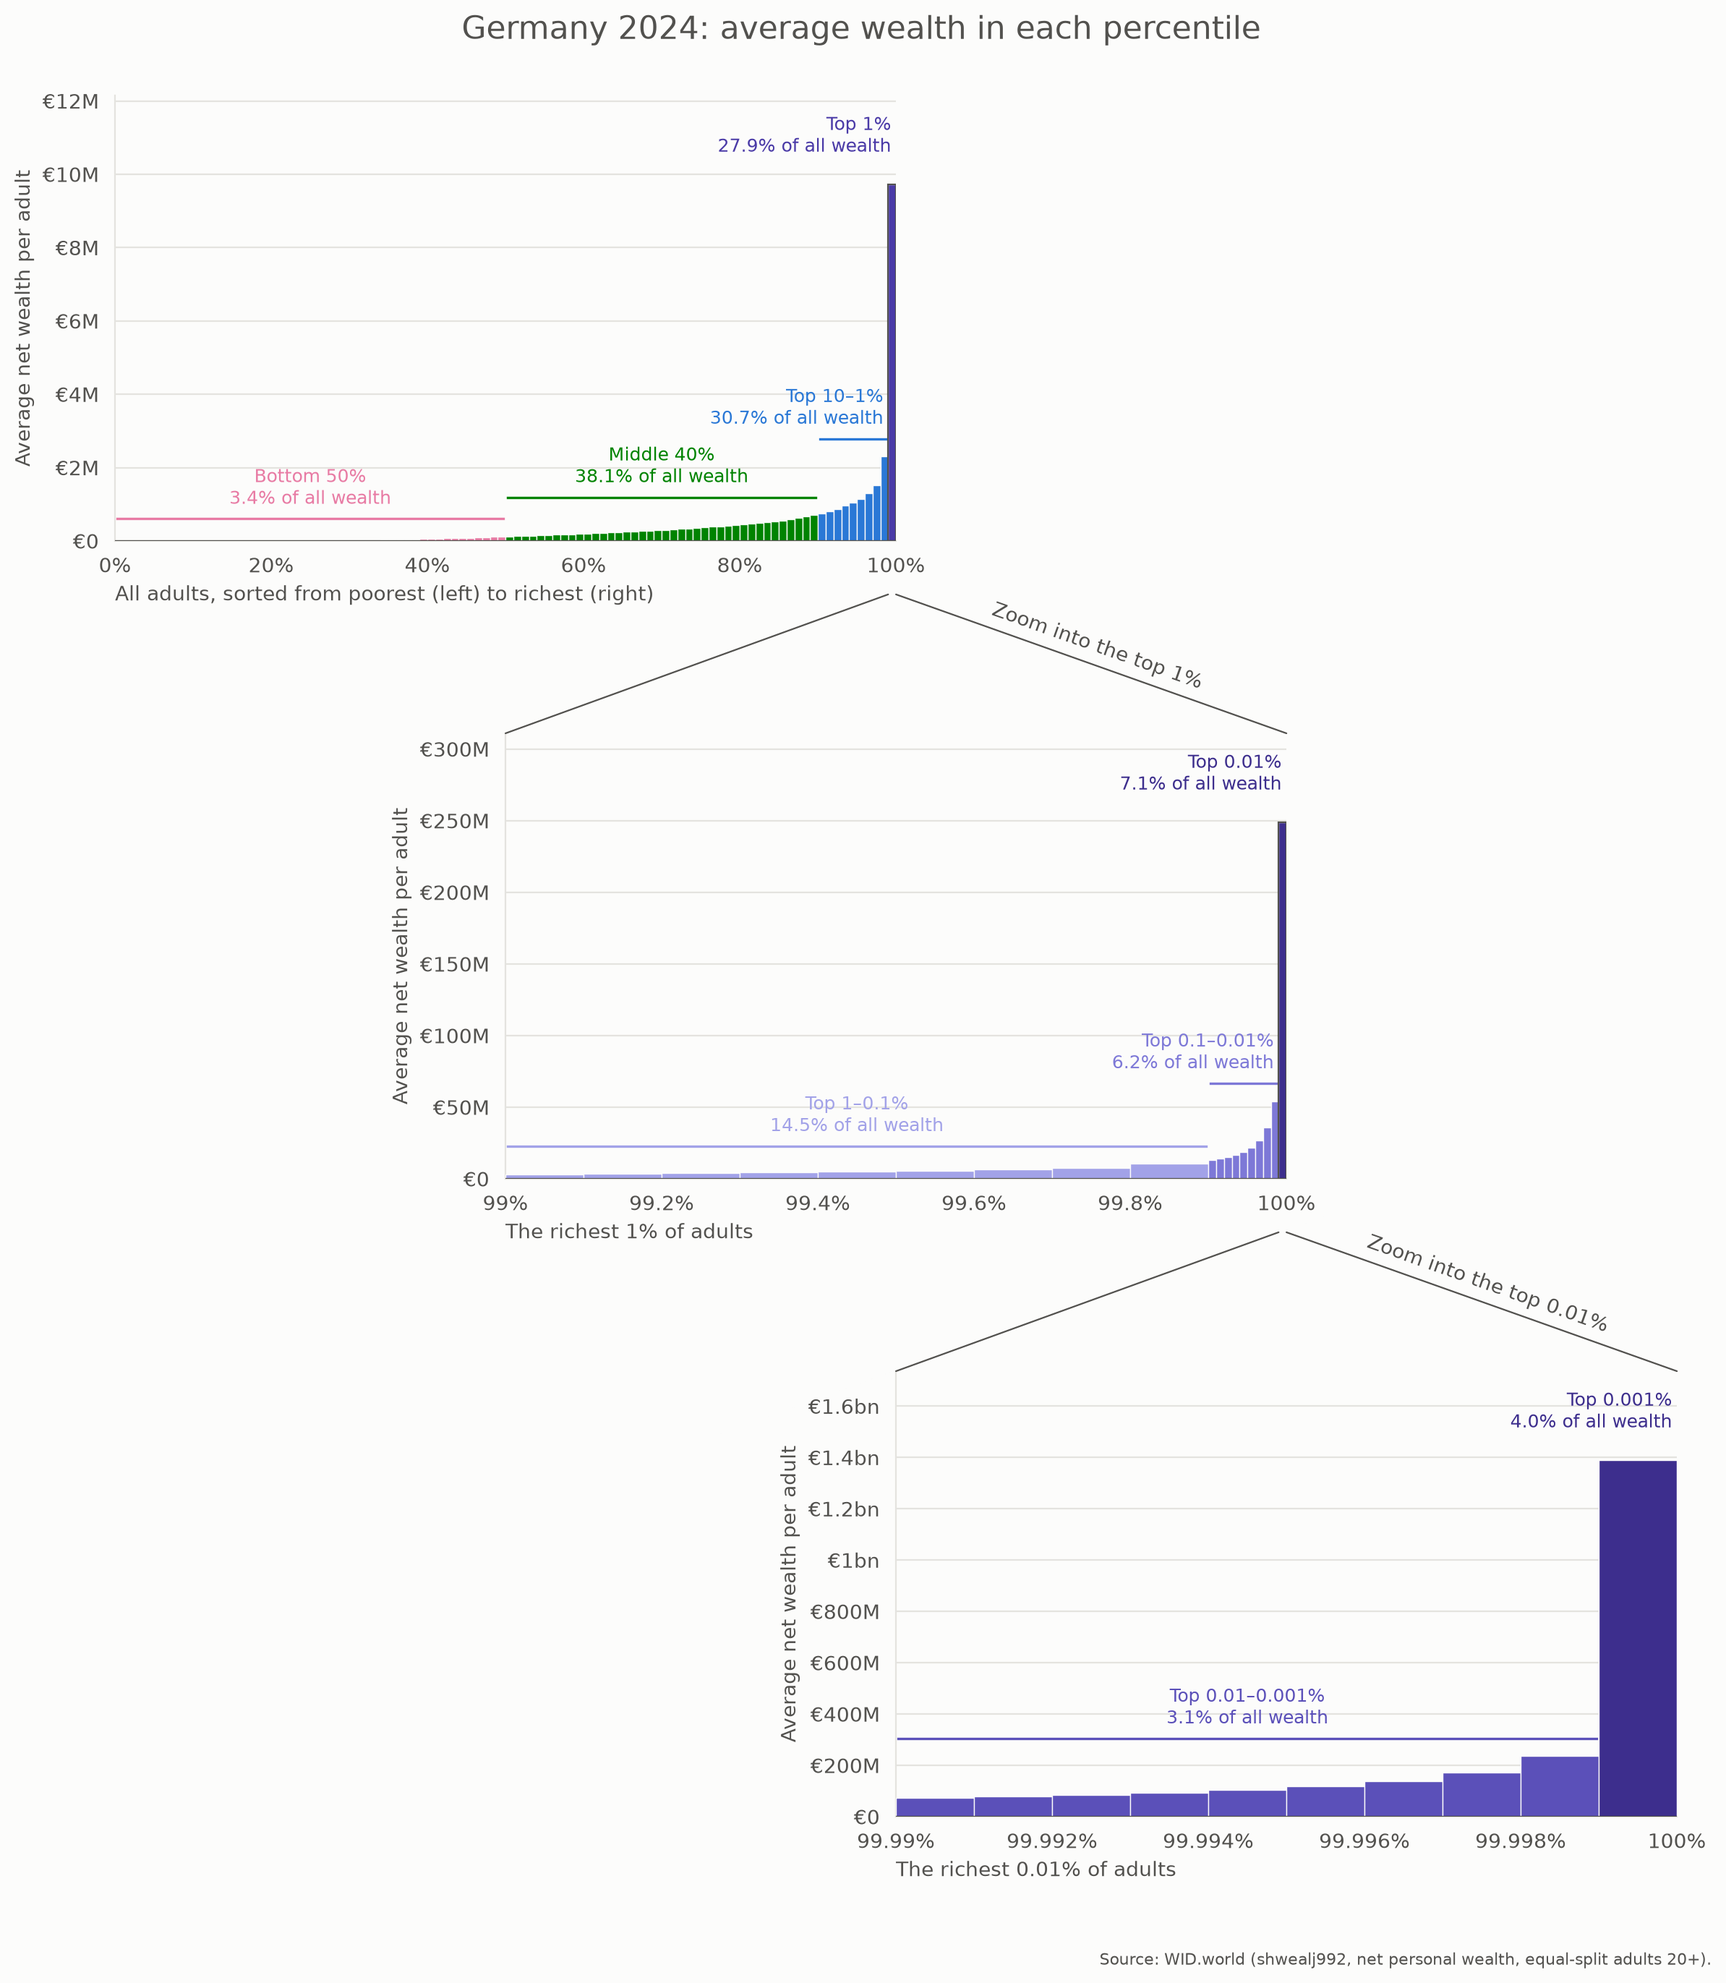
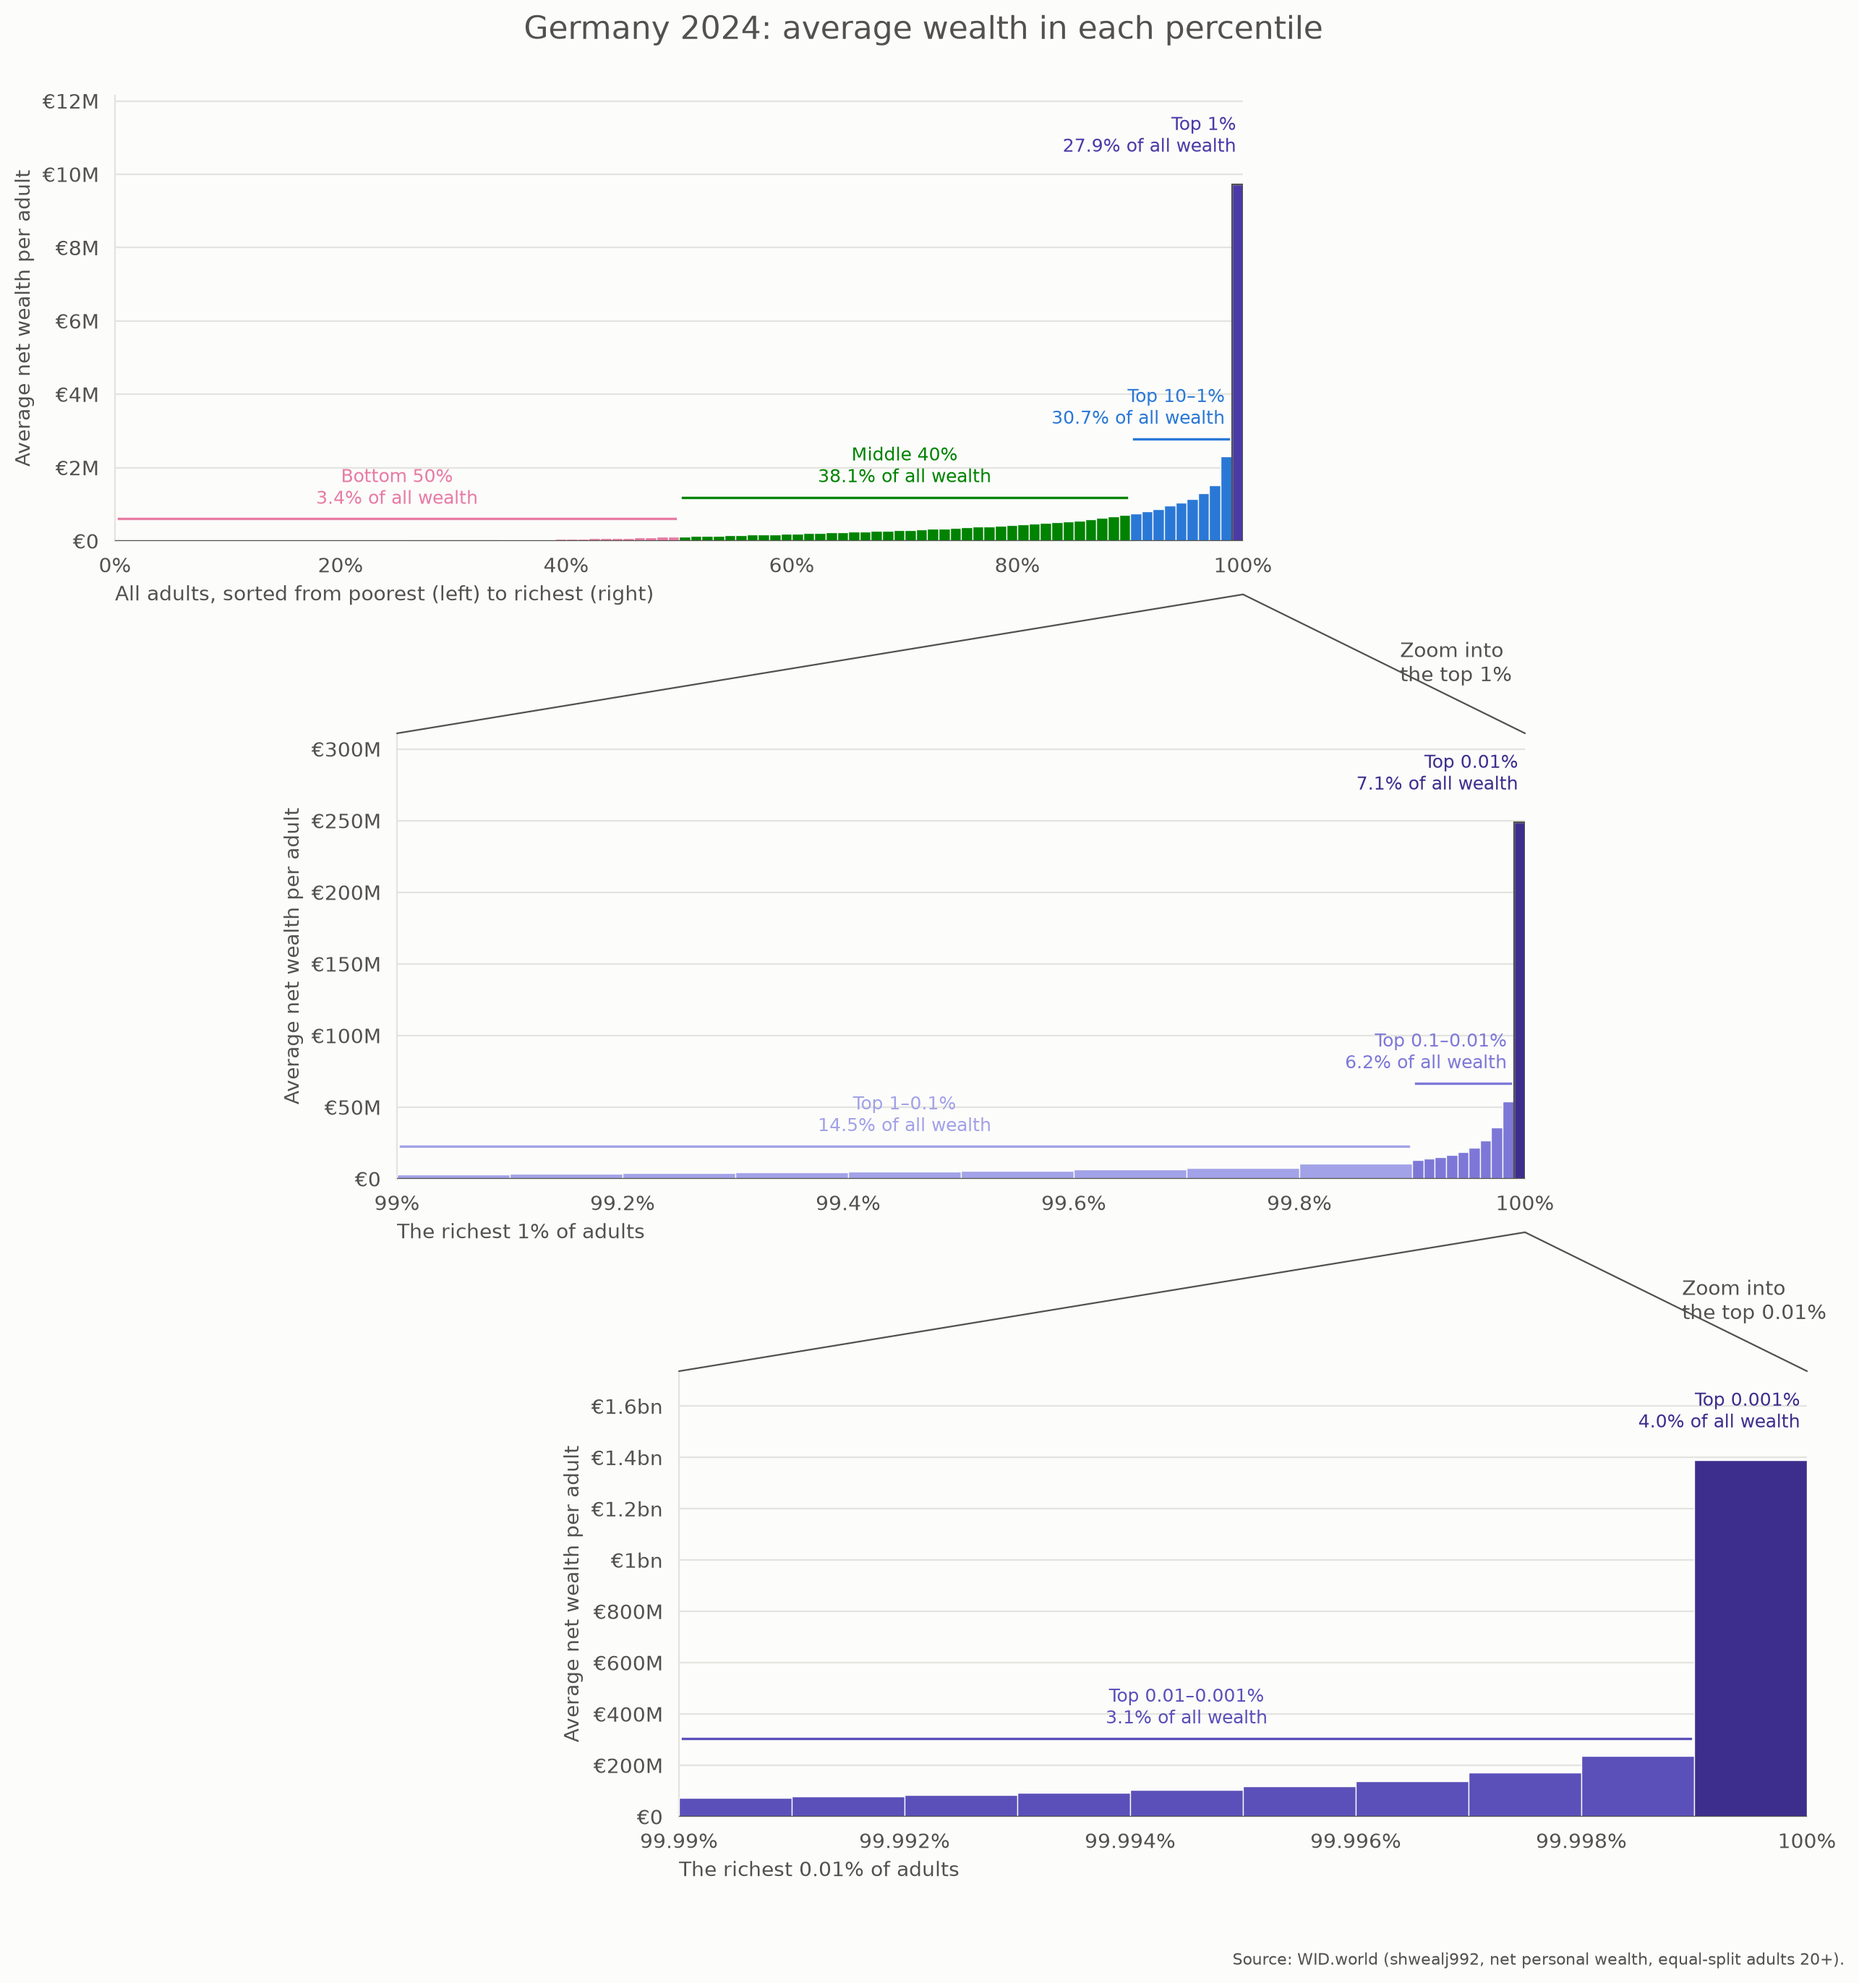
Staircase: lines meet under 100%, horizontal labels, wider panels
- both zoom lines leave from one point just under the "100%" tick label
- zoom labels are horizontal, two lines, just right of the right-hand line
- panels are 60% wide and step right by a fixed amount (left of centre
  under the zoomed bar), so the figure has less white space

diff --git a/src/wid/plotting/percentile_bars.py b/src/wid/plotting/percentile_bars.py
@@ -7,7 +7,6 @@ is the wealth it holds. `plot_percentile_bars` shows the 100 percentiles;
 panel centred under the bar it enlarges and joined to it by zoom lines.
 """
 
-import math
 from dataclasses import dataclass
 from pathlib import Path
 from typing import Literal
@@ -57,17 +56,20 @@ NARROW_LABEL_INSET = 0.006  # fraction of the x range; keeps text off the next b
 LABEL_LIFT = 0.04  # fraction of the y range between a group's tallest bar and label
 Y_HEADROOM = 1.25  # y range = tallest bar * this, room for the top label
 
-# Staircase layout (figure fractions): every panel is PANEL_WIDTH wide and the
-# next one is centred under the right-most bar of the one above.
-STAIRCASE_FIGSIZE: tuple[float, float] = (12.0, 14.0)
-STAIRCASE_PANEL_WIDTH = 0.45
+# Staircase layout (figure fractions): wide panels, each stepping right by a
+# fixed amount. That keeps the next panel left of centre under the zoomed bar
+# (which sits at the right edge), so the chart uses the width with little
+# white space.
+STAIRCASE_FIGSIZE: tuple[float, float] = (13.0, 14.0)
+STAIRCASE_PANEL_WIDTH = 0.6
 STAIRCASE_PANEL_HEIGHT = 0.22
-STAIRCASE_FIRST_LEFT = 0.07
+STAIRCASE_LEFTS: tuple[float, ...] = (0.07, 0.22, 0.37)
 STAIRCASE_BOTTOMS: tuple[float, ...] = (0.71, 0.395, 0.08)
-# Zoom lines start this far below the x axis (axes fraction), i.e. just under
-# the "100%" tick label, and their labels sit this far off the line (points).
+# Zoom lines start from one point this far below the x axis (axes fraction),
+# just under the "100%" tick label. Their label sits this far right of the
+# right-hand line's midpoint (points).
 ZOOM_LINE_START_Y = -0.12
-ZOOM_LABEL_OFFSET = 4.0
+ZOOM_LABEL_OFFSET = 8.0
 
 
 def format_eur(value: float, _pos: int | None = None) -> str:
@@ -252,9 +254,10 @@ def link_zoom(
 ) -> None:
     """Box the bar(s) x0..x1 in `ax_from` and draw zoom lines down to `ax_to`.
 
-    The lines start just under the x axis of `ax_from` (below the "100%" tick
-    label) and end at the top corners of `ax_to`, which spans exactly x0..x1.
-    `label` is written along the right-hand line.
+    Both lines start at one point just under the x axis of `ax_from` (below the
+    "100%" tick label) and end at the top corners of `ax_to`, which spans
+    exactly x0..x1.
+    `label` is written next to the right-hand line.
     """
     ax_from.add_patch(
         Rectangle(
@@ -267,12 +270,14 @@ def link_zoom(
             zorder=5,
         )
     )
+    # Both lines leave from one point under "100%" (the right edge, x1).
     below_axis = blended_transform_factory(ax_from.transData, ax_from.transAxes)
+    start = (x1, ZOOM_LINE_START_Y)
     y_top = ax_to.get_ylim()[1]
     for x in (x0, x1):
         fig.add_artist(
             ConnectionPatch(
-                xyA=(x, ZOOM_LINE_START_Y),
+                xyA=start,
                 coordsA=below_axis,
                 xyB=(x, y_top),
                 coordsB=ax_to.transData,
@@ -281,29 +286,20 @@ def link_zoom(
             )
         )
 
-    # Label along the right-hand line: rotate to its angle (display space, so
-    # it is independent of the axes' data scales) and nudge it off the line.
-    start = below_axis.transform((x1, ZOOM_LINE_START_Y))
-    end = ax_to.transData.transform((x1, y_top))
-    angle = math.degrees(math.atan2(end[1] - start[1], end[0] - start[0]))
-    mid = fig.transFigure.inverted().transform((start + end) / 2)
-    normal = math.radians(angle + 90)
+    # Label just right of the right-hand line's midpoint, kept horizontal.
+    start_px = below_axis.transform(start)
+    end_px = ax_to.transData.transform((x1, y_top))
+    mid = fig.transFigure.inverted().transform((start_px + end_px) / 2)
     fig.text(
         mid[0],
         mid[1],
         label,
-        rotation=angle,
-        rotation_mode="anchor",
-        ha="center",
-        va="bottom",
+        ha="left",
+        va="center",
         fontsize=LABEL_FONTSIZE + 1,
         color=INK_SECONDARY,
         transform=offset_copy(
-            fig.transFigure,
-            fig=fig,
-            x=ZOOM_LABEL_OFFSET * math.cos(normal),
-            y=ZOOM_LABEL_OFFSET * math.sin(normal),
-            units="points",
+            fig.transFigure, fig=fig, x=ZOOM_LABEL_OFFSET, y=0.0, units="points"
         ),
     )
 
@@ -317,13 +313,9 @@ def plot_percentile_bars_staircase(
 ) -> None:
     """The three panels of `plot_percentile_bars_zoom` as a staircase of zooms."""
     fig = plt.figure(figsize=STAIRCASE_FIGSIZE, facecolor=SURFACE)
-    lefts = [STAIRCASE_FIRST_LEFT]
-    for _ in STAIRCASE_BOTTOMS[1:]:
-        # Centre the next panel under the right edge of this one (its last bar).
-        lefts.append(lefts[-1] + STAIRCASE_PANEL_WIDTH / 2)
     ax_all, ax_top1, ax_top001 = (
         fig.add_axes((left, bottom, STAIRCASE_PANEL_WIDTH, STAIRCASE_PANEL_HEIGHT))
-        for left, bottom in zip(lefts, STAIRCASE_BOTTOMS, strict=True)
+        for left, bottom in zip(STAIRCASE_LEFTS, STAIRCASE_BOTTOMS, strict=True)
     )
     # x labels sit left so the zoom lines, which leave from under "100%" on the
     # right, never cross them.
@@ -365,7 +357,7 @@ def plot_percentile_bars_staircase(
         99.0,
         100.0,
         df_pct["avg_eur"][-1],
-        "Zoom into the top 1%",
+        "Zoom into\nthe top 1%",
     )
     link_zoom(
         fig,
@@ -374,6 +366,6 @@ def plot_percentile_bars_staircase(
         99.99,
         100.0,
         df_top1["avg_eur"][-1],
-        "Zoom into the top 0.01%",
+        "Zoom into\nthe top 0.01%",
     )
     save(fig, out_path)
